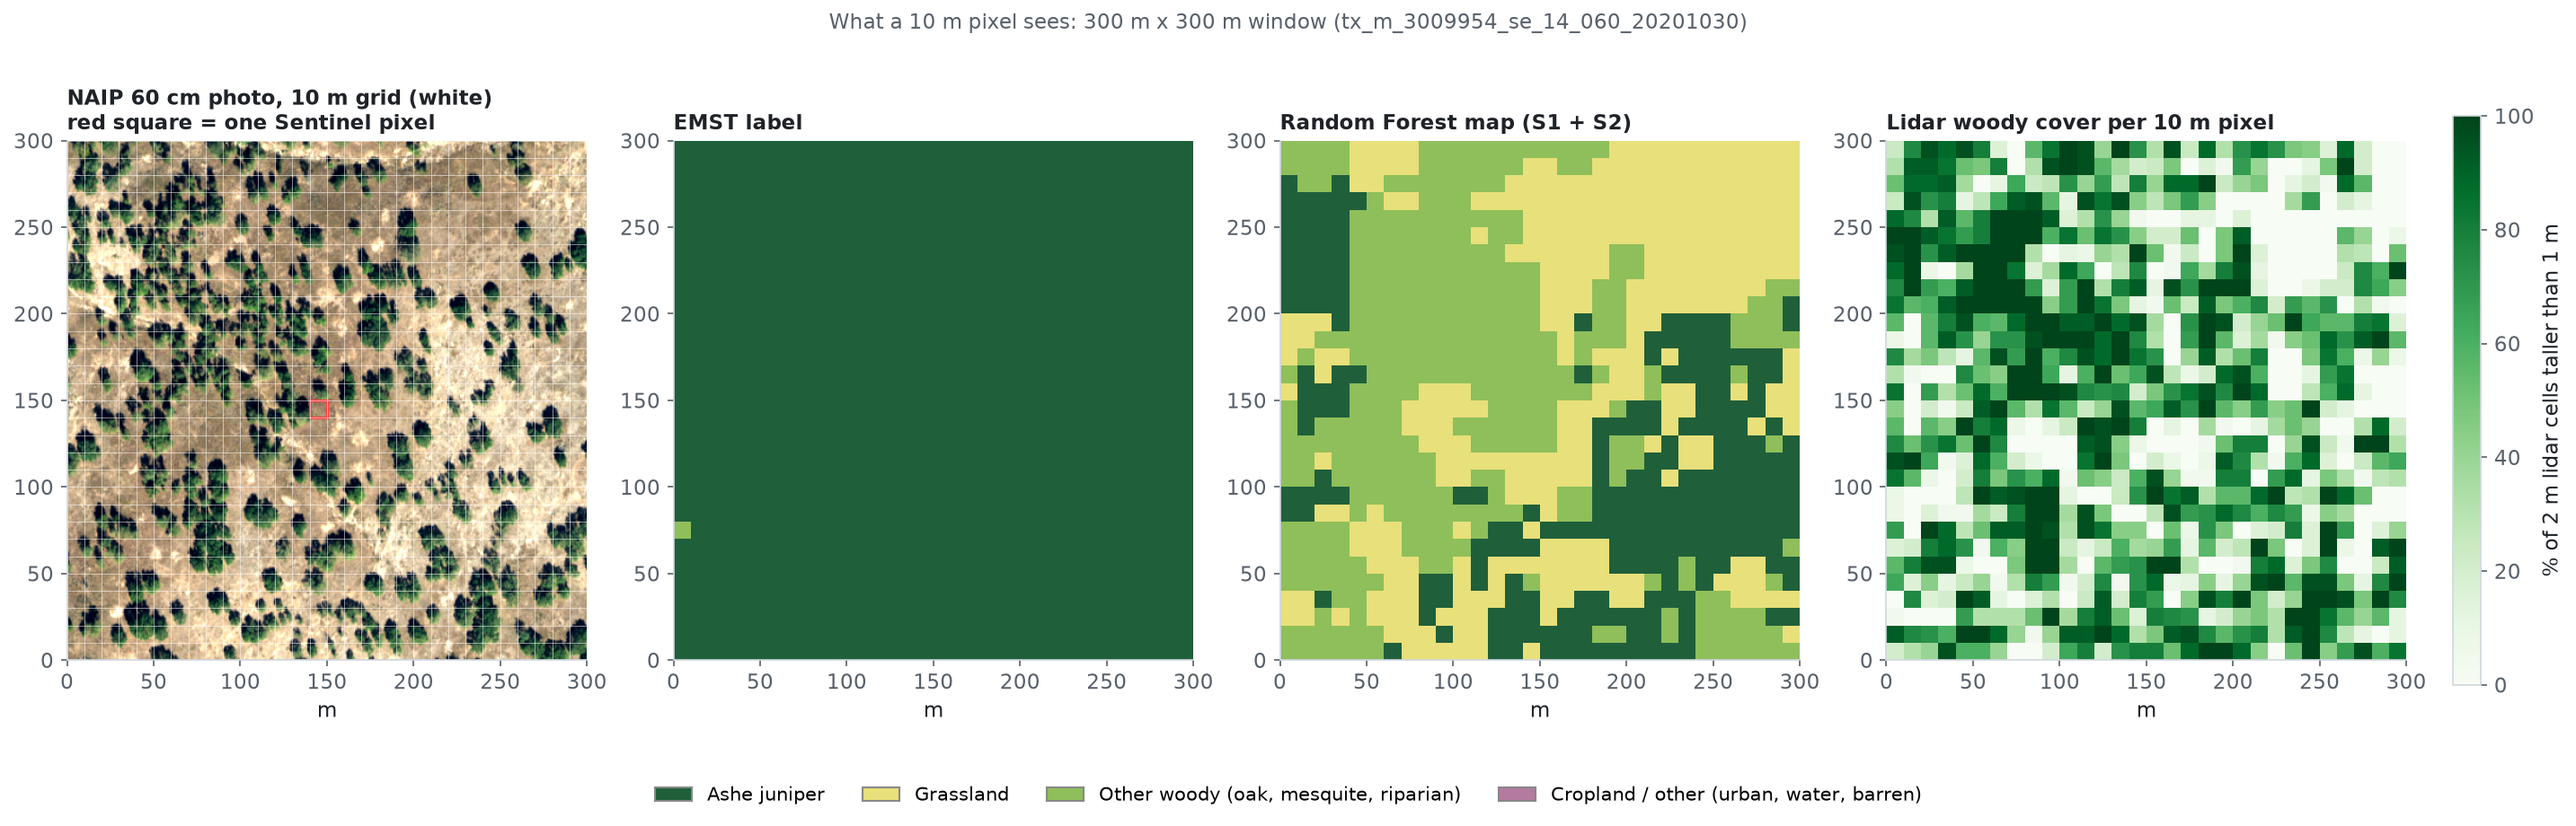
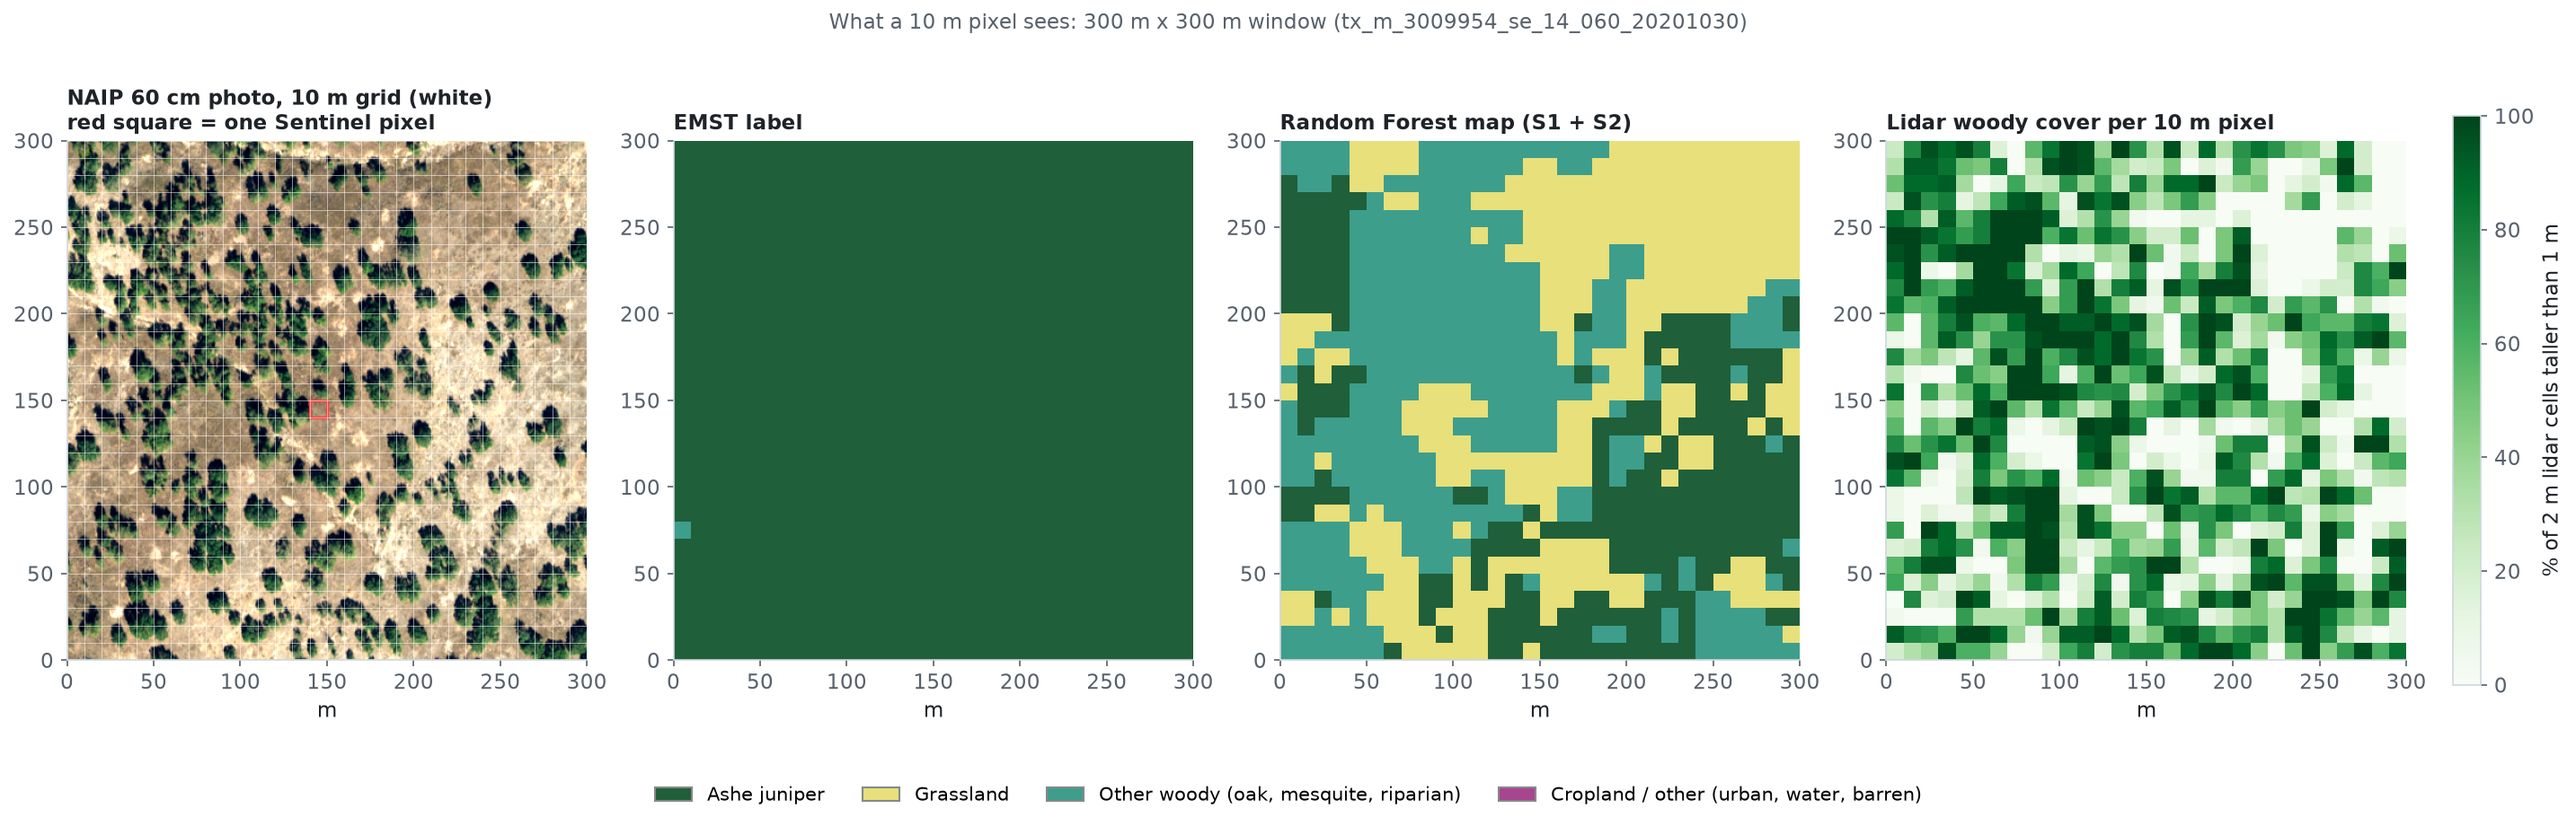
Figures: colorblind-safe class colors, tighter hero, zoomed axis
Class colors pass protan/deutan/tritan separation for every pair.

diff --git a/brushmap/plots.py b/brushmap/plots.py
@@ -55,10 +55,10 @@ def _draw_map(ax, img, classes, title, extent_km, fontsize=13):
         s.set_color(GRID)
 
 
-def _curve(ax, q, color, label, dashed=False):
+def _curve(ax, q, color, label, dashed=False, band=True):
     x = np.arange(1, 13)
     q = np.asarray(q)
-    if not dashed:
+    if band and not dashed:
         ax.fill_between(x, q[0], q[2], color=color, alpha=0.15, linewidth=0)
     ax.plot(x, q[1], color=color, linewidth=2.4 if not dashed else 2.0, linestyle="--" if dashed else "-",
             marker="o", markersize=4, label=label)
@@ -72,12 +72,12 @@ def _month_axis(ax):
 
 
 def hero_figure(pred, ref, classes, extent_km, ndvi, olof, cv, main, path, place, year, site):
-    fig = plt.figure(figsize=(16, 9), dpi=100)
-    gs = fig.add_gridspec(2, 3, width_ratios=[1, 1, 1.05], height_ratios=[0.13, 1], left=0.03, right=0.98,
-                          top=0.97, bottom=0.13, wspace=0.14, hspace=0.12)
+    fig = plt.figure(figsize=(16, 7.4), dpi=100)
+    gs = fig.add_gridspec(2, 3, width_ratios=[1, 1, 1.05], height_ratios=[0.16, 1], left=0.03, right=0.98,
+                          top=0.96, bottom=0.12, wspace=0.16, hspace=0.2)
     head = fig.add_subplot(gs[0, :])
     head.axis("off")
-    head.text(0, 0.75, f"Mapping {site['species'].split(' (')[0]} with Sentinel-1 and Sentinel-2", fontsize=23,
+    head.text(0, 0.75, f"Mapping {site['species'].split(' (')[0]} with Sentinel-1 and Sentinel-2", fontsize=20,
               weight="bold", color=INK, va="center")
     head.text(0, 0.05, f"{place}  |  {year}  |  10 m pixels  |  labels: TPWD EMST map",
               fontsize=13.5, color=MUTED, va="center")
@@ -87,15 +87,14 @@ def hero_figure(pred, ref, classes, extent_km, ndvi, olof, cv, main, path, place
     for c in classes:
         name = CLASSES[c][0]
         if name in ndvi and c in site["curves"]:
-            _curve(ax, ndvi[name], CLASSES[c][1], name)
+            _curve(ax, ndvi[name], CLASSES[c][1], name, band=(c == site["target"]))
     _month_axis(ax)
-    ax.set_ylabel("Median NDVI (shading: middle 50 % of pixels)")
+    ax.set_ylabel("Median NDVI (shading: middle 50 % of target pixels)")
     ax.set_title("Greenness through the year", loc="left", fontsize=15)
-    ax.legend(frameon=False, fontsize=9.5, loc="lower center", ncol=2)
     k = classes.index(site["target"])
     tname = CLASSES[site["target"]][0]
     head.text(1.0, 0.75, f"{tname}: user's {olof['users_accuracy'][k]:.2f}, producer's {olof['producers_accuracy'][k]:.2f}",
-              fontsize=16, weight="bold", color=INK, ha="right", va="center")
+              fontsize=14.5, weight="bold", color=INK, ha="right", va="center")
     ba = cv[f"random_forest|{main}"]["test"]["balanced_accuracy"]
     head.text(1.0, 0.05, f"vs EMST labels, held-out 2 km blocks (all {len(classes)} classes: balanced accuracy {ba:.2f})",
               fontsize=12, color=MUTED, ha="right", va="center")
@@ -149,7 +148,8 @@ def model_comparison(cv, configs, path, clustered, cluster_px, main, metric="bal
     ax.set_yticks(range(len(rows)), [f"{cfg} | {ml}" for cfg, _, ml in rows], fontsize=9.5)
     ax.set_ylim(len(rows) - 0.5, -0.6)
     lo = min(cv[f"{m}|{c}"][s][metric] for c, m, _ in rows for s in off if s in cv[f"{m}|{c}"])
-    ax.set_xlim(max(0, lo - 0.08), 1.0)
+    hi = max(cv[f"{m}|{c}"][s][metric] for c, m, _ in rows for s in off if s in cv[f"{m}|{c}"])
+    ax.set_xlim(max(0, lo - 0.05), min(1.0, hi + 0.06))
     ax.set_xlabel("Balanced accuracy vs EMST labels (axis zoomed)")
     ax.set_title("Which sensors help? (scattered-pixel training sample)", loc="left")
     ax.xaxis.grid(True, color=GRID, linewidth=0.6)

diff --git a/brushmap/labels.py b/brushmap/labels.py
@@ -19,21 +19,22 @@ EMST_SERVICE = (
 )
 EMST_LAYERS = tuple(range(1, 12))  # one layer per ecoregion; only those that intersect the box return data
 
-# Analysis classes per study site: code -> (name, color). ``CLASSES`` holds the active site's table
+# Analysis classes per study site: code -> (name, color). Colors checked with a colorblind-safety
+# validator: every pair of classes stays distinct under protan, deutan and tritan vision. ``CLASSES`` holds the active site's table
 # (set by :func:`set_site`); the figures read it.
 MESQUITE_CLASSES = {
-    1: ("Mesquite shrubland", "#c8a03c"),
+    1: ("Mesquite shrubland", "#eb6834"),
     2: ("Grassland", "#e8e07a"),
     3: ("Juniper / evergreen woody", "#1f5f3a"),
-    4: ("Deciduous woody (oak, riparian)", "#6fa35a"),
-    5: ("Cropland", "#d77fb3"),
-    6: ("Other (urban, water, barren)", "#8a8a8a"),
+    4: ("Deciduous woody (oak, riparian)", "#3d9e8c"),
+    5: ("Cropland", "#a8458f"),
+    6: ("Other (urban, water, barren)", "#b0b0b0"),
 }
 JUNIPER_CLASSES = {
     1: ("Ashe juniper", "#1f5f3a"),
     2: ("Grassland", "#e8e07a"),
-    3: ("Other woody (oak, mesquite, riparian)", "#8fbf5a"),
-    4: ("Cropland / other (urban, water, barren)", "#b57aa0"),
+    3: ("Other woody (oak, mesquite, riparian)", "#3d9e8c"),
+    4: ("Cropland / other (urban, water, barren)", "#a8458f"),
 }
 CLASSES = dict(MESQUITE_CLASSES)
 MESQUITE = 1
